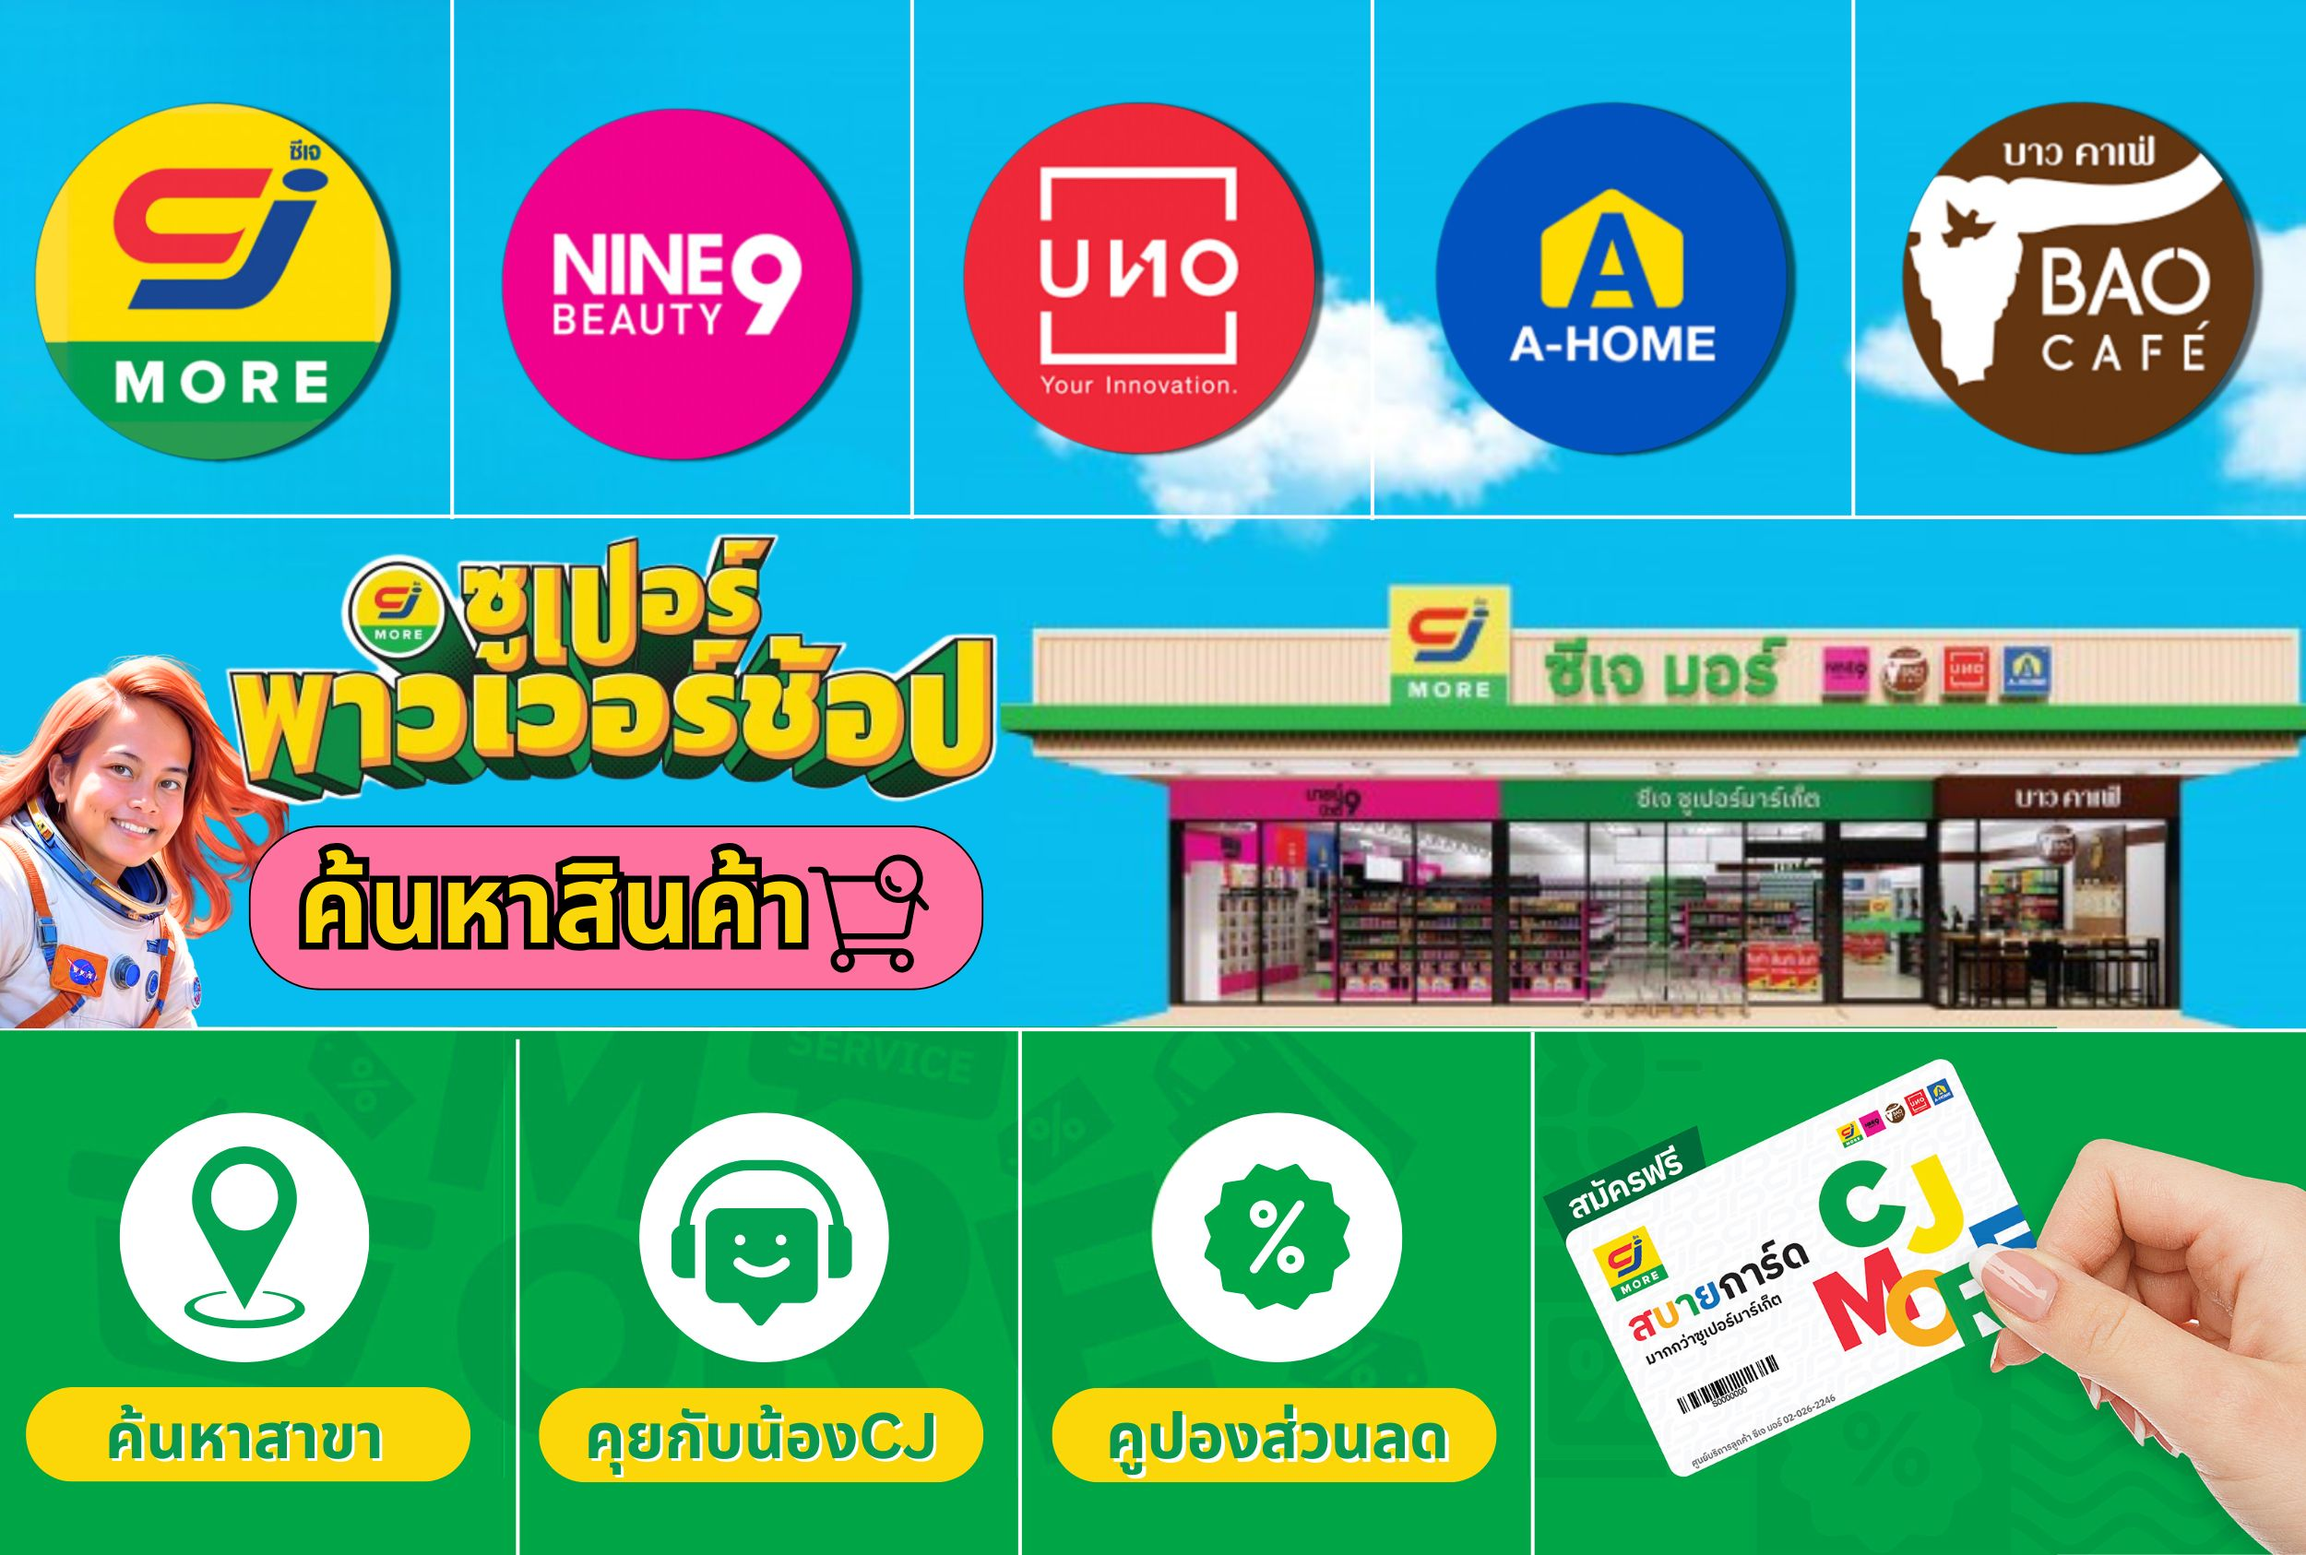
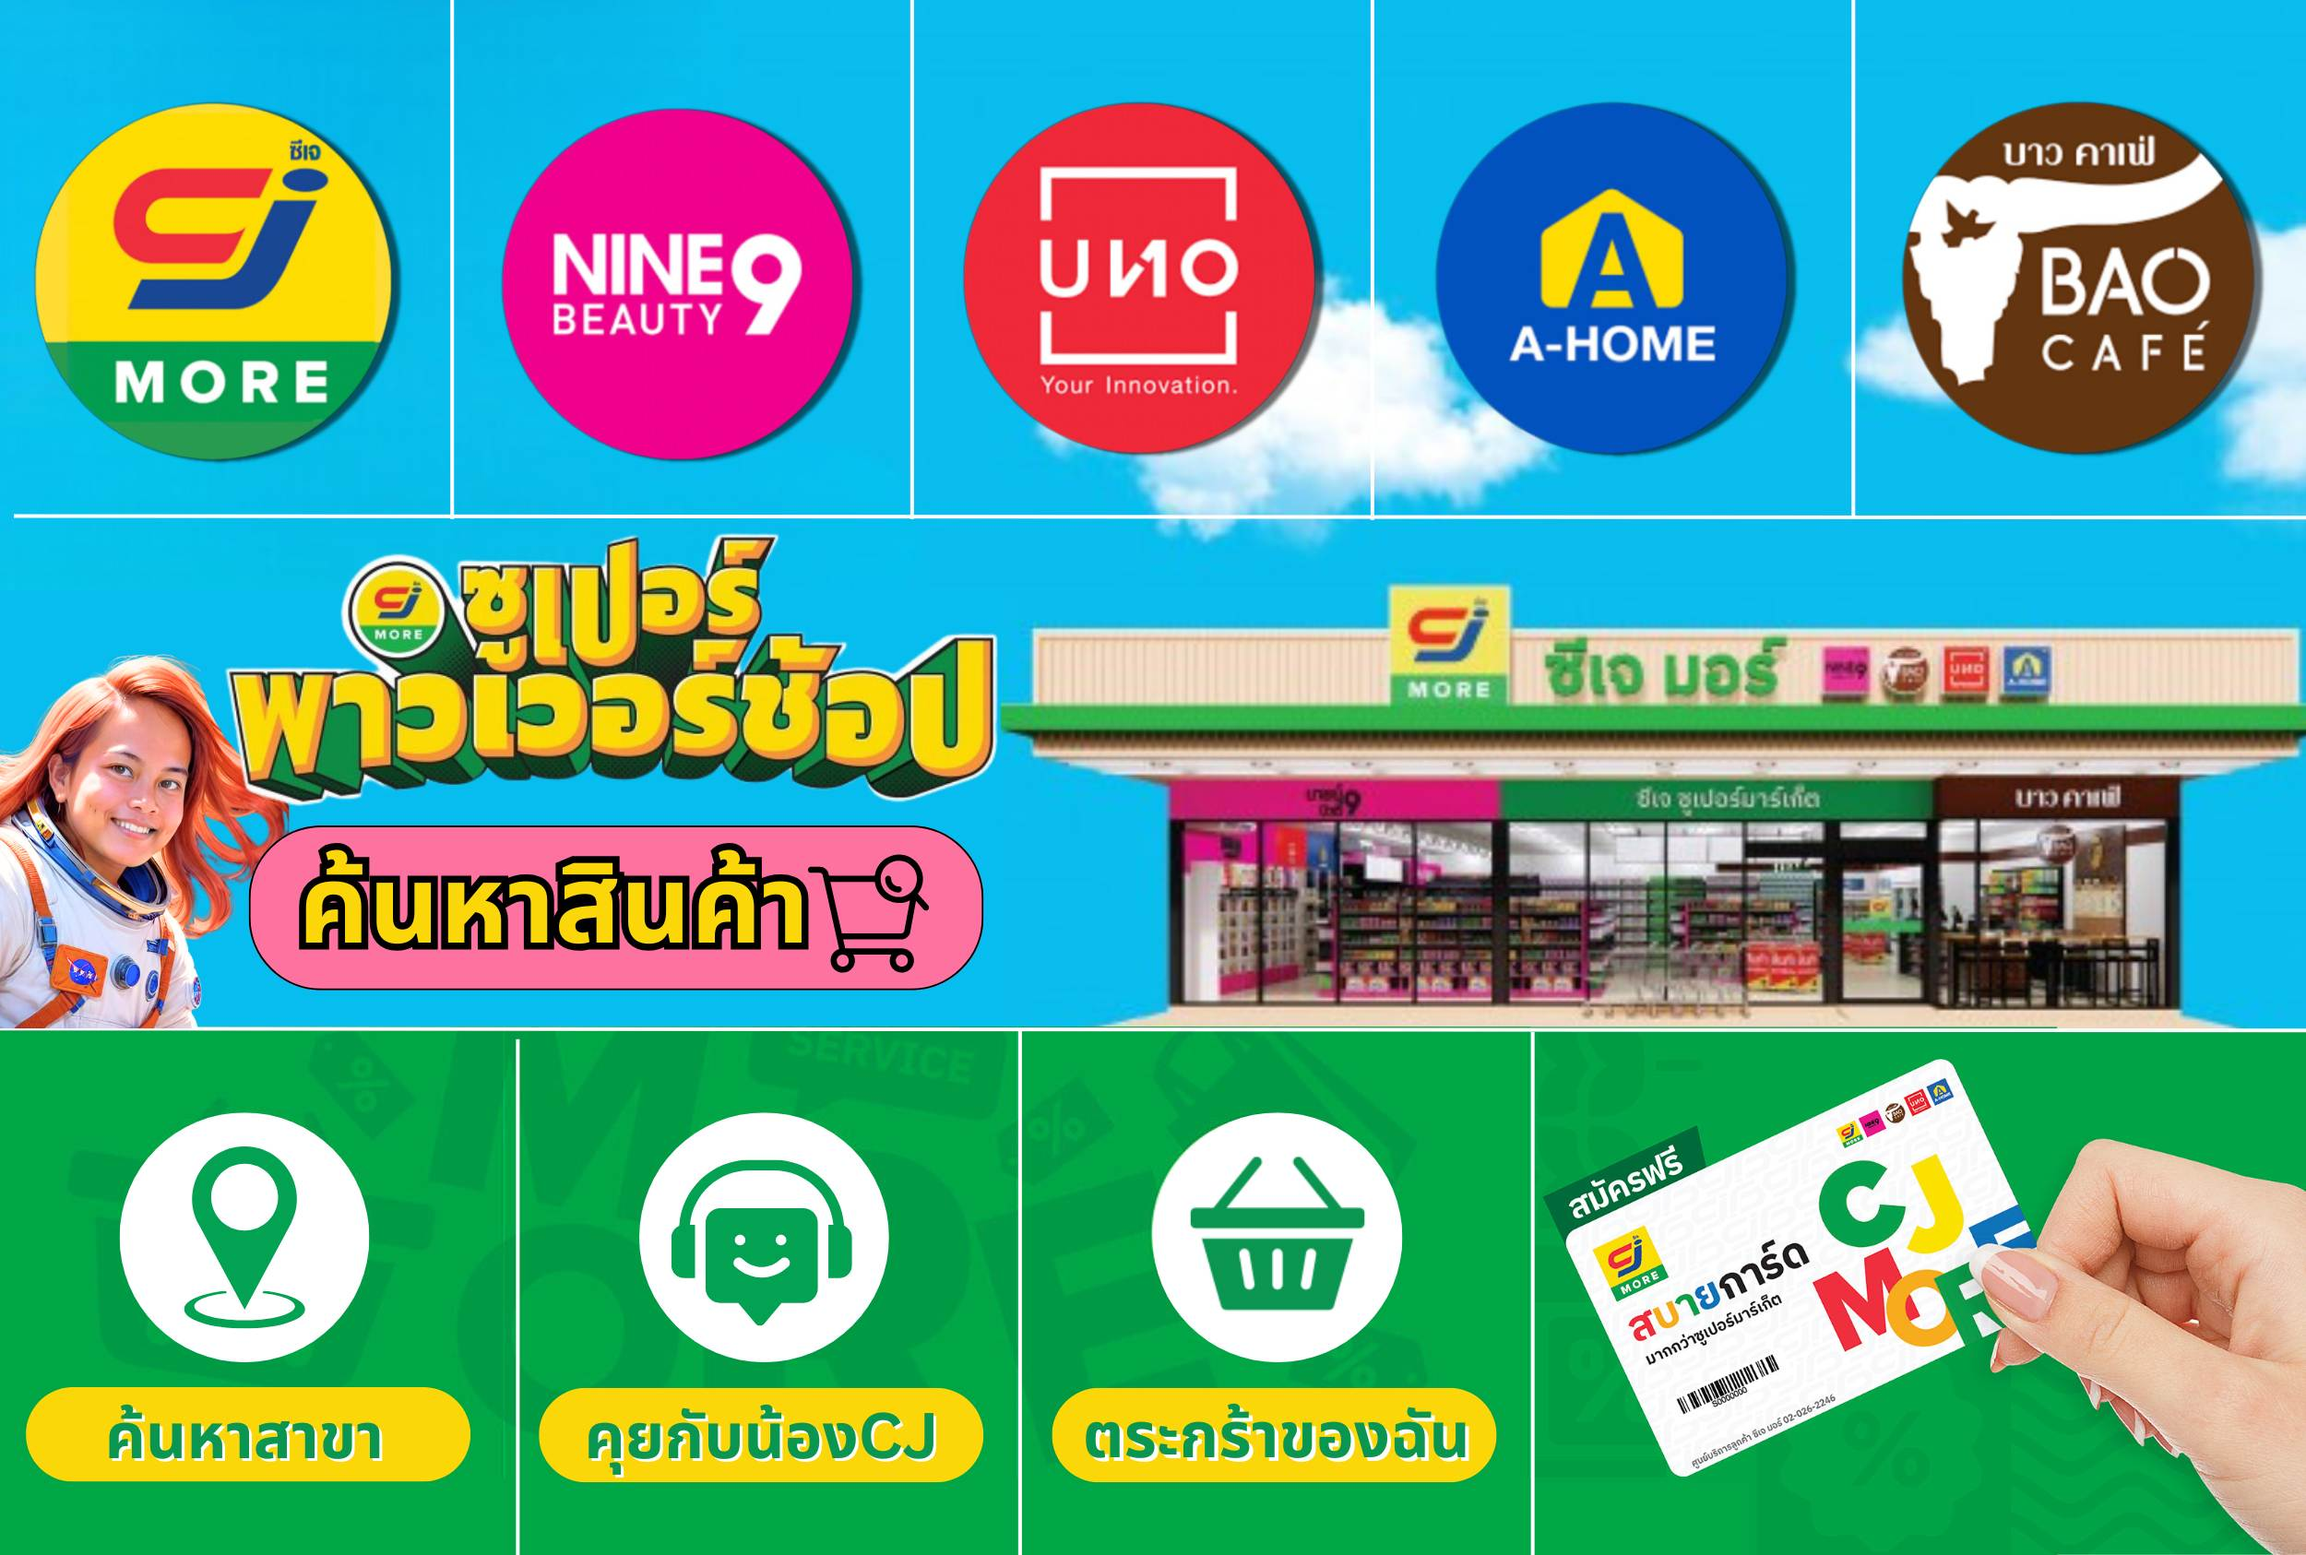
richmenu

Changed region(s): [[0.468, 0.8944, 0.6552, 0.9561], [0.4992, 0.7402, 0.5928, 0.8636], [0.6864, 0.8019, 0.7176, 0.8327]]

diff --git a/webhook_handler/commons/handler_text.py b/webhook_handler/commons/handler_text.py
@@ -21,6 +21,13 @@ from linebot.v3.messaging import (
     FlexContainer,
     URIAction,
     PostbackAction,
+    QuickReplyItem,
+    QuickReply,
+    MessageAction,
+    DatetimePickerAction,
+    CameraAction,
+    CameraRollAction,
+    LocationAction,
 )
 
 
@@ -138,14 +145,63 @@ def handle_nong_cj_leave_group(line_bot_api, event, text):
             )
         )
 
+def handle_search_example(line_bot_api, event, text):
+    line_bot_api.reply_message(
+            ReplyMessageRequest(
+                reply_token=event.reply_token,
+                messages=[
+                    TextMessage(
+                        text="พิมพ์ว่า #ค้นหา ตามด้วยสินค้าได้เลย เช่น #ค้นหาลิปมัน"
+                    ),
+                ],
+            )
+        )
+
+def handle_calling_nong_cj(line_bot_api, event, text):
+    line_bot_api.reply_message(
+        ReplyMessageRequest(
+            reply_token=event.reply_token,
+            messages=[
+                TextMessage(
+                    text="Quick reply",
+                    quick_reply=QuickReply(
+                        items=[
+                            QuickReplyItem(
+                                action=PostbackAction(label="label1", data="data1")
+                            ),
+                            QuickReplyItem(
+                                action=MessageAction(label="label2", text="text2")
+                            ),
+                            QuickReplyItem(
+                                image_url="",
+                                action=CameraAction(label="ส่งรูปสินค้าที่ต้องการค้นหา")
+                            ),
+                            QuickReplyItem(
+                                image_url="",
+                                action=CameraRollAction(label="ถ่ายรูปสินค้าที่ต้องการค้นหา")
+                            ),
+                            QuickReplyItem(
+                                image_url="",
+                                action=LocationAction(label="ค้นหาสาขา")
+                            ),
+                        ]
+                    ),
+                )
+            ],
+        )
+    )
+
 
 def handle_text_by_keyword(event, line_bot_api):
     text = event.message.text
     function_map = {
         "คูปองส่วนลด": handle_coupon_search,
+        "ค้นหาคูปอง": handle_coupon_search,
         "ค้นหาสาขา": handle_branch_search,
         "คุยกับน้อง CJ": handle_talk_to_cj,
         "#น้องCJออกไป": handle_nong_cj_leave_group,
+        "ลองค้นหาสินค้ากับน้อง CJ": handle_search_example,
+        "น้อง CJ": handle_calling_nong_cj
     }
     if text in function_map:
         function_map[text](line_bot_api, event, text)

diff --git a/richmenu/03_upload_richmenu_image.py b/richmenu/03_upload_richmenu_image.py
@@ -43,12 +43,12 @@ def upload_rich_menu_images(rich_menu_data):
 
 # Example usage:
 rich_menu_data = [
-    {'rich_menu_id': "richmenu-xxxxxxxxxxxxxxxxx", 'image_path': "richmenu/richmenu_contents/images/main.jpg"},
-    {'rich_menu_id': "richmenu-yyyyyyyyyyyyyyyyy", 'image_path': "richmenu/richmenu_contents/images/cj.jpg"},
-    {'rich_menu_id': "richmenu-yyyyyyyyyyyyyyyyy", 'image_path': "richmenu/richmenu_contents/images/nine.jpg"},
-    {'rich_menu_id': "richmenu-yyyyyyyyyyyyyyyyy", 'image_path': "richmenu/richmenu_contents/images/uno.jpg"},
-    {'rich_menu_id': "richmenu-yyyyyyyyyyyyyyyyy", 'image_path': "richmenu/richmenu_contents/images/ahome.jpg"},
-    {'rich_menu_id': "richmenu-yyyyyyyyyyyyyyyyy", 'image_path': "richmenu/richmenu_contents/images/bao-cafe.jpg"},
+    {'rich_menu_id': "richmenu-644e1536d98549fce47e55b083465704", 'image_path': "richmenu/richmenu_contents/images/richmenu-main-2.jpg"},
+    # {'rich_menu_id': "richmenu-yyyyyyyyyyyyyyyyy", 'image_path': "richmenu/richmenu_contents/images/cj.jpg"},
+    # {'rich_menu_id': "richmenu-yyyyyyyyyyyyyyyyy", 'image_path': "richmenu/richmenu_contents/images/nine.jpg"},
+    # {'rich_menu_id': "richmenu-yyyyyyyyyyyyyyyyy", 'image_path': "richmenu/richmenu_contents/images/uno.jpg"},
+    # {'rich_menu_id': "richmenu-yyyyyyyyyyyyyyyyy", 'image_path': "richmenu/richmenu_contents/images/ahome.jpg"},
+    # {'rich_menu_id': "richmenu-yyyyyyyyyyyyyyyyy", 'image_path': "richmenu/richmenu_contents/images/bao-cafe.jpg"},
 ] 
 
 upload_rich_menu_images(rich_menu_data)

diff --git a/richmenu/01_get_richmenu.py b/richmenu/01_get_richmenu.py
@@ -15,11 +15,11 @@ configuration = linebot.v3.messaging.Configuration(
 
 api_client = linebot.v3.messaging.ApiClient(configuration)
 api_instance = linebot.v3.messaging.MessagingApi(api_client)
-rich_menu_id = "richmenu-644e1536d98549fce47e55b083465704"  # str | ID of a rich menu
+rich_menu_id = "richmenu-b77e6391e0f33e7a42d67cc691415ab8"  # str | ID of a rich menu
 
 try:
-    # api_response = api_instance.get_rich_menu_alias_list()
-    # pprint(api_response)
+    api_response = api_instance.get_rich_menu_alias_list()
+    pprint(api_response)
     
     api_response = api_instance.get_rich_menu(rich_menu_id)
     pprint(api_response)
@@ -27,6 +27,12 @@ try:
     
     api_response = api_instance.set_default_rich_menu(rich_menu_id)
     pprint(api_response)
+    
+    rich_menu_bulk_unlink_request = linebot.v3.messaging.RichMenuBulkUnlinkRequest(
+        userIds = ["U851fc04bfa20819fd5b5c942329b5ac8"]
+    )
+
+    # api_instance.unlink_rich_menu_id_from_users(rich_menu_bulk_unlink_request)
 
 except Exception as e:
     print("Exception when calling MessagingApi->get_rich_menu: %s\n" % e)

diff --git a/richmenu/02_create_richmenu.py b/richmenu/02_create_richmenu.py
@@ -92,12 +92,12 @@ def upload_rich_menu_image(rich_menu_id, image_path):
 
 # Example usage:
 list_rich_menu = [
-    "richmenu-ahome.json",
-    "richmenu-bao-cafe.json",
-    "richmenu-cj.json",
-    "richmenu-nine.json",
-    "richmenu-uno.json",
-    "richmenu-main.json",
+    # "richmenu-ahome.json",
+    # "richmenu-bao-cafe.json",
+    # "richmenu-cj.json",
+    # "richmenu-nine.json",
+    # "richmenu-uno.json",
+    # "richmenu-main.json",
     "richmenu-main-2.json"
 ]
 create_rich_menus(list_rich_menu)

diff --git a/webhook_handler/commons/handler_postback.py b/webhook_handler/commons/handler_postback.py
@@ -27,7 +27,7 @@ class PostbackHandler:
         }
         self.datastore_client = DatastoreClient()
         self.rich_menu_id_config = {
-            "main": "richmenu-644e1536d98549fce47e55b083465704",
+            "main": "richmenu-b77e6391e0f33e7a42d67cc691415ab8",
             "cj": "richmenu-4c7272287975fafd7d80fc36cbdb9062",
             "nine": "richmenu-ca6673b31843ae20592960f536fc0f5b",
             "uno": "richmenu-d612e6dc259ca897ed5650c60220fed2",
